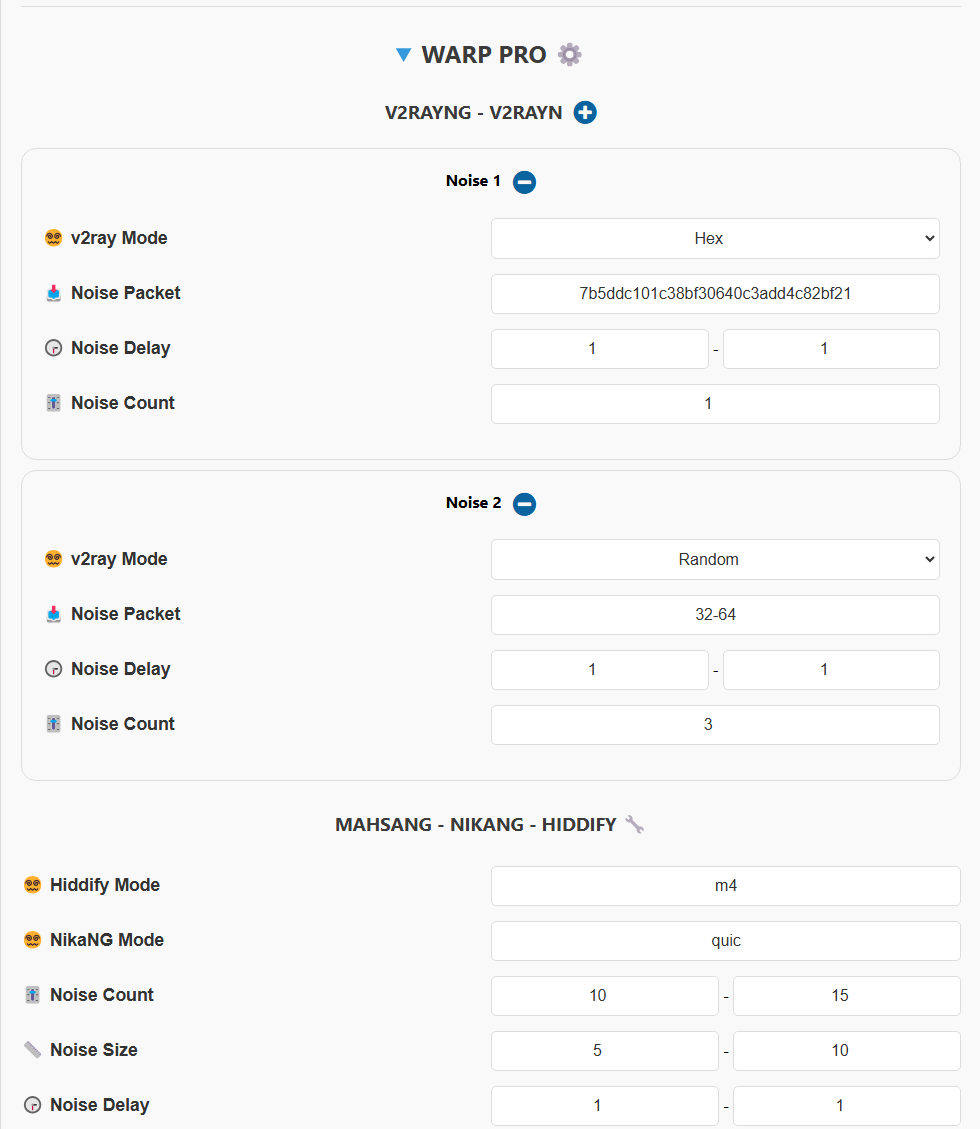
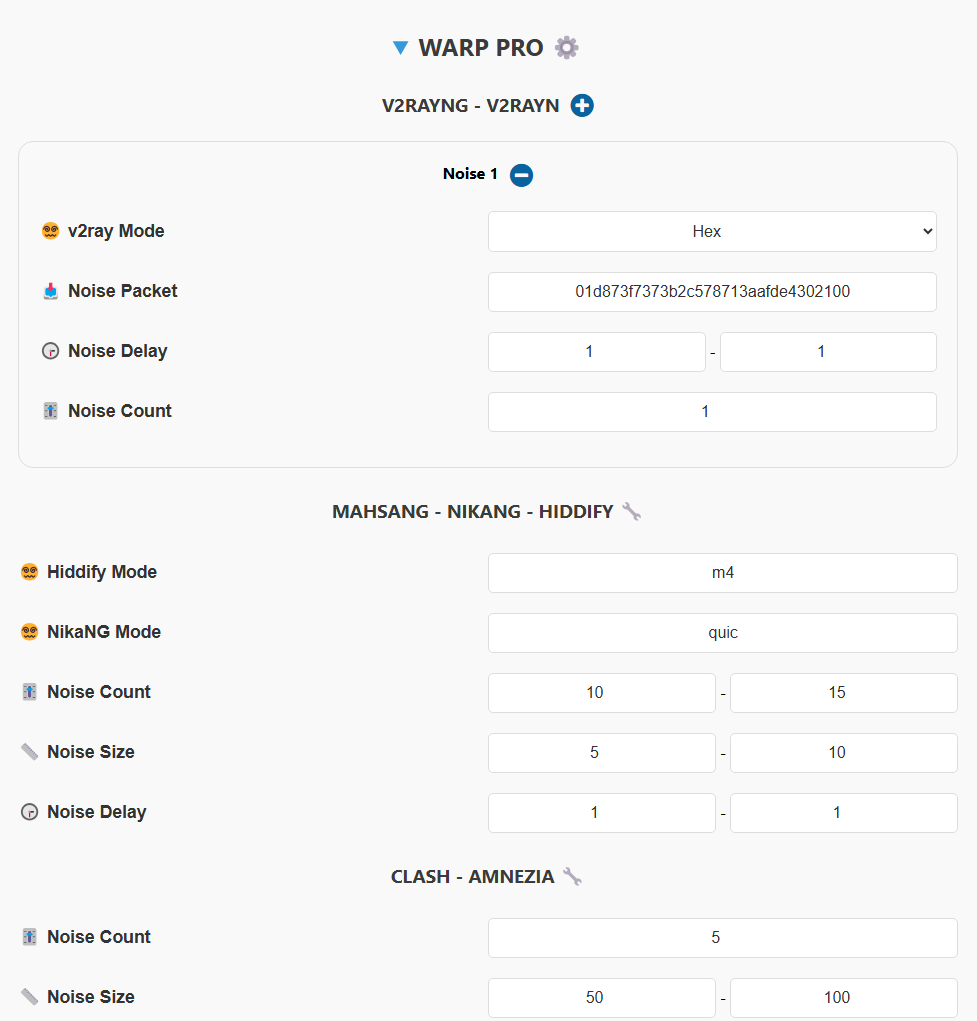
Fixes, Updated docs.

diff --git a/src/pages/home.js b/src/pages/home.js
@@ -1471,6 +1471,16 @@ export async function renderHomePage (proxySettings, isPassSet) {
                             ${dlConfig('warpsub', 'clash')}
                         </td>
                     </tr>
+                    <tr>
+                        <td>
+                            ${supportedApps(['Wireguard'])}
+                        </td>
+                        <td>
+                            <button id="dlConfigsBtn" type="button" onclick="downloadWarpConfigs()">
+                                Download<span class="material-symbols-outlined">download</span>
+                            </button>
+                        </td>
+                    </tr>
                 </table>
             </div>
             <h2>🔗 WARP PRO SUB</h2>
@@ -1505,6 +1515,7 @@ export async function renderHomePage (proxySettings, isPassSet) {
                         <td>
                             ${subQR('warpsub', 'clash-pro', `${atob('QlBC')}-Warp-Pro`, 'Warp Pro Subscription')}
                             ${subURL('warpsub', 'clash-pro', `${atob('QlBC')}-Warp-Pro`)}
+                            ${dlConfig('warpsub', 'clash-pro')}
                         </td>
                     </tr>
                     <tr>
@@ -1514,16 +1525,6 @@ export async function renderHomePage (proxySettings, isPassSet) {
                         <td>
                             ${subQR('warpsub', 'hiddify-pro', `${atob('QlBC')}-Warp-Pro`, 'Warp Pro Subscription', false, true)}
                             ${subURL('warpsub', 'hiddify-pro', `${atob('QlBC')}-Warp-Pro`, true)}
-                        </td>
-                    </tr>
-                    <tr>
-                        <td>
-                            ${supportedApps(['Wireguard'])}
-                        </td>
-                        <td>
-                            <button id="dlConfigsBtn" type="button" onclick="downloadWarpConfigs()">
-                                Download<span class="material-symbols-outlined">download</span>
-                            </button>
                         </td>
                     </tr>
                     <tr>

diff --git a/docs/configuration_fa.md b/docs/configuration_fa.md
@@ -104,6 +104,8 @@
 
 این ساب یه کانفیگ Warp میده که IP کلادفلر ایران هست و یه کانفیگ Warp on Warp (به اختضار WoW) که IP خارجه (در حال حاضر بدلیل تغییرات کلادفلر بعضی وقتا IP ایران میده) و یه کافیگ Warp Best Ping که میاد به سریعترین کانفیگ Warp وصل میشه و همیشه IP ایران داره و یه کانفیگ WoW Best Ping که به سریعترین کانفیگ WoW وصل میشه که IP خارجه. بصورت پبشفرض یه کانفیگ Warp و WoW بیشتر نیست ولی اگر قسمت Endpoints رو ویرایش کنید به تعداد Endpoint های ورودی کانفیگ Warp و WoW اضافه میشه.
 
+فایل زیپ کانفیگهای Warp رو هم میتونید دانلود کنید، وارد برنامه Wireguard میشید، فایل زیپ دانلود شده رو ایمپورت میکنید. در نظر داشته باشید اکثر اپراتورها در ایران Warp رو مسدود کردن، فقط از این برنامه وقتی استفاده کنید که اپراتورتون Wireguard رو باز گذاشته.
+
 در نظر داشته باشید حتما از اسکنر استفاده کنید برای پیدا کردن Endpoint مناسب روی اپراتور خودتون. اسکریپت اسکنر داخل پنل هست، کپی کنید و داخل Termux روی اندروید اجراش کنید. برای قرار دادن داخل پنل قسمت تنظیمات پیشرفته 7-4 رو بخونید. ساب وارپ معمولی ممکنه روی یه سری اپراتور مثل ایرانسل خوب کار کنه ولی برای بقیه از ساب Warp Pro استفاده کنید.
 <br><br>
 
@@ -118,7 +120,8 @@
 > [!CAUTION]
 > اپ Hiddify هم باید حداقل ورژنش 2.0.5 باشه.
 
-<br>
+فایل زیپ کانفیگهای Pro رو هم میتونید دانلود کنید، وارد برنامه WG Tunnel میشید، + رو میزنید و فایل زیپ دانلود شده رو انتخاب میکنید، دیگه نیازی نیست هیچ تنظیمات خاصی بکنید، کانفیگا وصل میشن. برای Amnezia هم مراحل همینه فقط این برنامه فایل zip رو درست نمیخونه، بعد از دانلود کردن فایل زیپ اول Extract میکنید بعد هر کدوم کانفیگا که خواستید رو وارد Amnezia میکنید و وصل میشید.
+<br><br>
 <h1 align="center">جدول My IP</h1>
 
 <p align="center">
@@ -367,7 +370,6 @@
 3. اگر اپراتورتون از IPv6 پشتیبانی نمیکنه برای عملکرد بهینهی DNS و پروکسی میتونید غیرفعالش کنید.
 4. قسمت Warp Configs اینجوریه که اگه Update کنید میره کانفیگای وارپ جدید از کلادفلر میگیره و ذخیره میکنه، اگه سابها رو آپدیت کنید میبینید که تغییر کردن. ولی این قسمت اصلا ربطی به سرعت اتصال نداره.
 5. زمان چک کردن Best Ping. تو سابهای Warp و Warp PRO ما Best Ping رو داریم. بصورت پیشفرض هر 30 ثانیه میومد بهترین کانفیگ یا Endpoint رو پیدا میکرد و بهش وصل میشد، اما ممکنه اگه سرعت نت خوب نباشه و شما در حال تماشای ویدئو یا بازی کردن باشید این 30 ثانیه دردسرساز بشه و تجربهی Lag داشته باشید. از اینجا میتونید زمان رو تنظیم کنید، حداقل میتونه 10 ثانیه باشه و حداکثر 90.
-6. میتونید کانفیگ وارپ رو به تعداد Endpoint هایی که وارد کردید در یک فایل زیپ از قسمت Download دریافت کنید، مثلا برای استفاده در برنامهی WG Tunnel یا هر بنامهای که فایل کانفیگ وایرگارد رو ساپورت میکنه.
 <br><br>
 
 ## 4- تنظیمات WARP PRO
@@ -408,10 +410,12 @@
 - مود random که میاد بصورت تصادفی Noise تولید میکنه.
 - و مود آخر که میتونید خودتون یه رشتهی HEX دلبخواه استفاده کنید، مثلا fe09ad5600bc...
   
-3. بخش Noise Count تعداد این پکتهای فیک یا نویز هست که ارسال میشه. مثلا پیشفرض پنل میگه بین 10 الی 15 تا بفرست.
-4. بعدی Noise size هست که از اسمش مشخصه طول این پکتهاست.
-5. آخری Noise Delay هم فاصلهی بین ارسال این نویزها هست.
+4. بخش Noise Count تعداد این پکتهای فیک یا نویز هست که ارسال میشه. مثلا پیشفرض پنل میگه بین 10 الی 15 تا بفرست.
+5. بعدی Noise size هست که از اسمش مشخصه طول این پکتهاست.
+6. آخری Noise Delay هم فاصلهی بین ارسال این نویزها هست.
 
+7. این قسمت برای Amnezia و WG Tunnel و برنامههای Clash هست چون همشون از یک تنظیمات پیروی میکنن. مثل بخشای قبلی تعداد نویز و حداقل و حداکثر سایز رو مشخص میکنید. در جدول Warp Pro sub علاوه بر ساب اپلیکیشنها میتونید فایل زیپ کانفیگای Amnezia و WG Tunnel رو هم دانلود کنید.
+ 
 این تنظیمات به مرور برای هر اپراتور با آزمون و خطاها مشخص میشه.
 <br><br>
 
